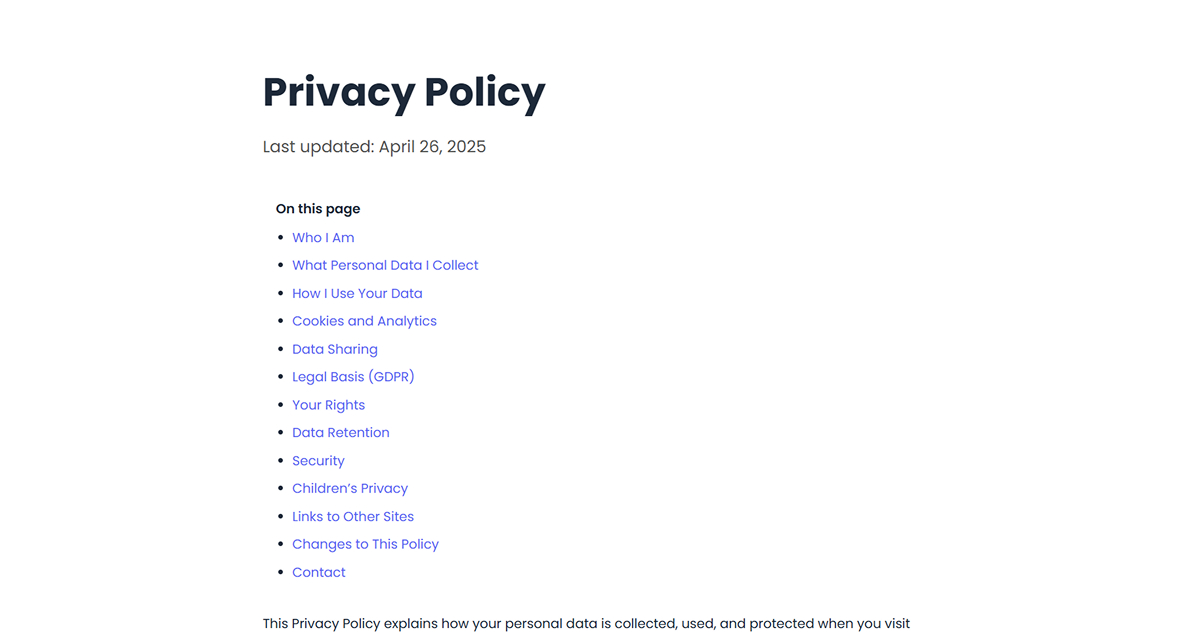
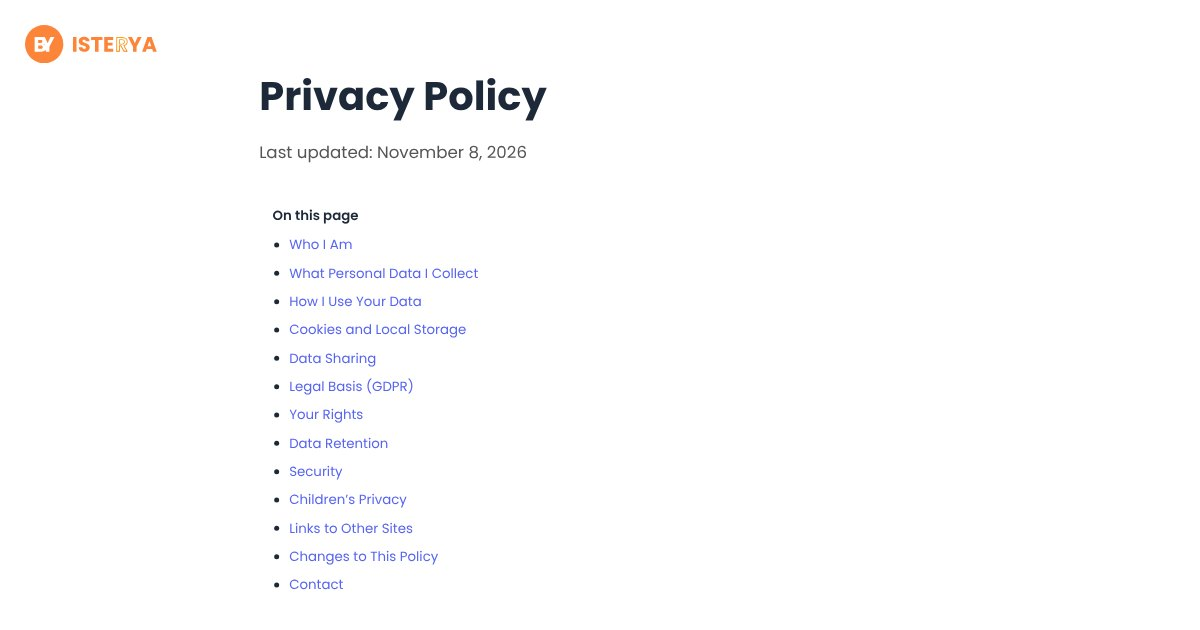
fix(privacy): describe what the site actually does with data
The policy claimed cookies and Google Analytics, which the site never
had, and named no third parties. It now says there are no cookies or
analytics, explains the language and game record kept in local storage,
lists the services that handle a request (Vercel, Render, Telegram,
Brevo) and the 10-minute duplicate check on the form server. Updated in
all three languages; revision date and preview image refreshed.

diff --git a/src/pages/privacyPolicyPage/PrivacyPolicyPage.tsx b/src/pages/privacyPolicyPage/PrivacyPolicyPage.tsx
@@ -94,6 +94,7 @@ const PrivacyPolicyPage = () => {
             <li>{t('privacy.retentionList.services')}</li>
             <li>{t('privacy.retentionList.legal')}</li>
           </ul>
+          <p>{t('privacy.retentionText2')}</p>
 
           <h3 id="security">{t('privacy.securityTitle')}</h3>
           <p>{t('privacy.securityText')}</p>

diff --git a/src/data/legalRevisions.ts b/src/data/legalRevisions.ts
@@ -1,5 +1,5 @@
 export const legalRevisions = {
-  privacyPolicy: '2025-04-26',
+  privacyPolicy: '2026-11-08',
   termsOfUse: '2025-04-26',
 } as const;
 
